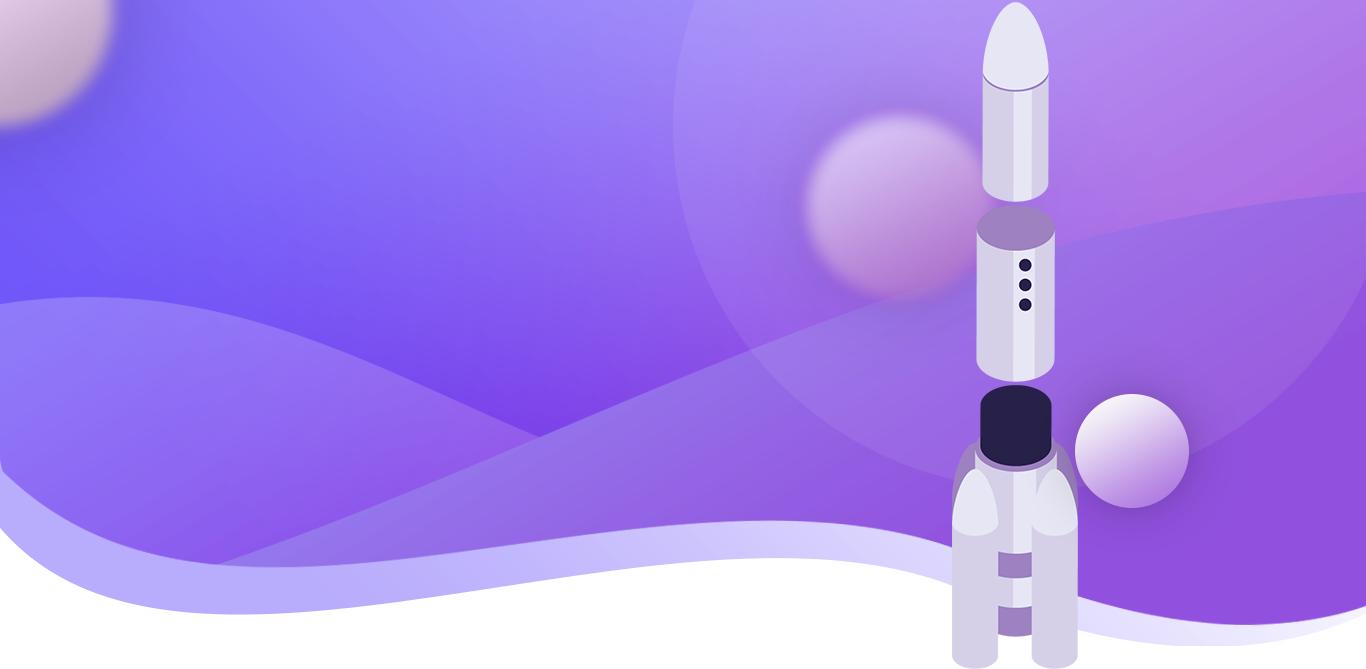
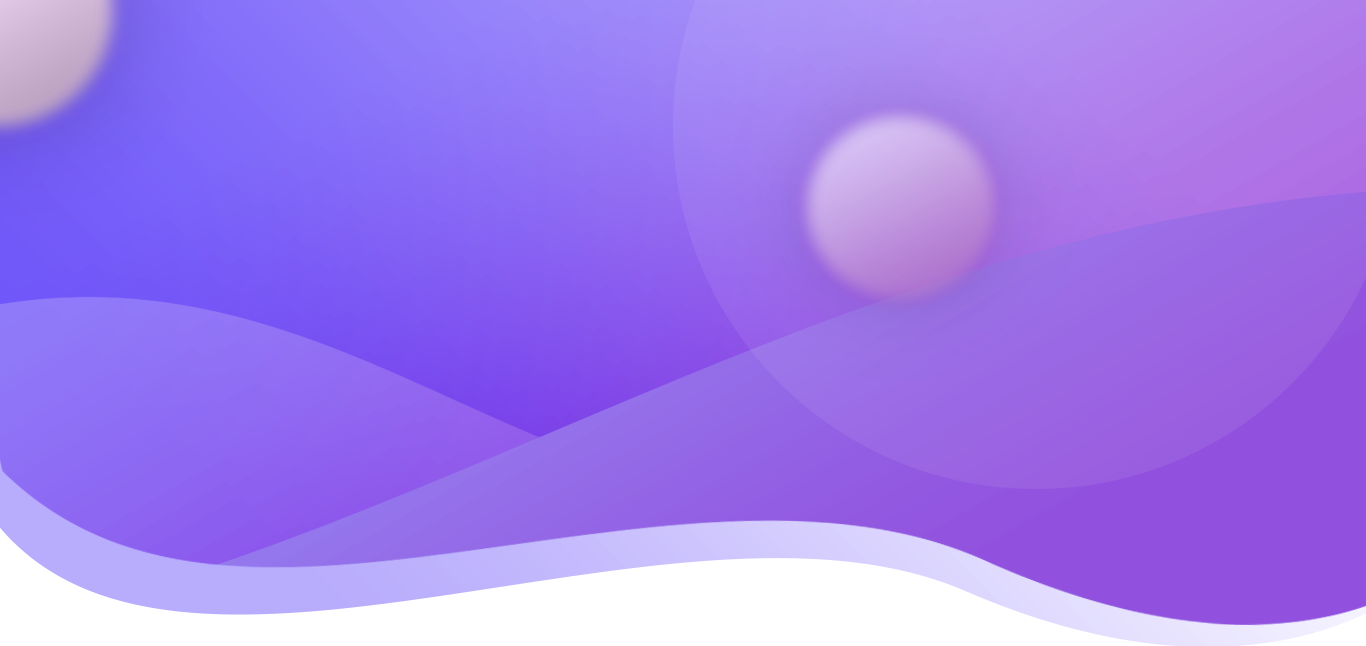
create companies

diff --git a/app/css/style.min.css b/app/css/style.min.css
@@ -1,1 +1,1 @@
-/*! normalize.css v8.0.1 | MIT License | github.com/necolas/normalize.css */html{line-height:1.15;-webkit-text-size-adjust:100%}body{margin:0}main{display:block}h1{font-size:2em;margin:0.67em 0}hr{-webkit-box-sizing:content-box;box-sizing:content-box;height:0;overflow:visible}pre{font-family:monospace, monospace;font-size:1em}a{background-color:transparent}abbr[title]{border-bottom:none;text-decoration:underline;-webkit-text-decoration:underline dotted;text-decoration:underline dotted}b,strong{font-weight:bolder}code,kbd,samp{font-family:monospace, monospace;font-size:1em}small{font-size:80%}sub,sup{font-size:75%;line-height:0;position:relative;vertical-align:baseline}sub{bottom:-0.25em}sup{top:-0.5em}img{border-style:none}button,input,optgroup,select,textarea{font-family:inherit;font-size:100%;line-height:1.15;margin:0}button,input{overflow:visible}button,select{text-transform:none}button,[type="button"],[type="reset"],[type="submit"]{-webkit-appearance:button}button::-moz-focus-inner,[type="button"]::-moz-focus-inner,[type="reset"]::-moz-focus-inner,[type="submit"]::-moz-focus-inner{border-style:none;padding:0}button:-moz-focusring,[type="button"]:-moz-focusring,[type="reset"]:-moz-focusring,[type="submit"]:-moz-focusring{outline:1px dotted ButtonText}fieldset{padding:0.35em 0.75em 0.625em}legend{-webkit-box-sizing:border-box;box-sizing:border-box;color:inherit;display:table;max-width:100%;padding:0;white-space:normal}progress{vertical-align:baseline}textarea{overflow:auto}[type="checkbox"],[type="radio"]{-webkit-box-sizing:border-box;box-sizing:border-box;padding:0}[type="number"]::-webkit-inner-spin-button,[type="number"]::-webkit-outer-spin-button{height:auto}[type="search"]{-webkit-appearance:textfield;outline-offset:-2px}[type="search"]::-webkit-search-decoration{-webkit-appearance:none}::-webkit-file-upload-button{-webkit-appearance:button;font:inherit}details{display:block}summary{display:list-item}template{display:none}[hidden]{display:none}.slick-slider{position:relative;display:block;-webkit-box-sizing:border-box;box-sizing:border-box;-webkit-user-select:none;-moz-user-select:none;-ms-user-select:none;user-select:none;-webkit-touch-callout:none;-khtml-user-select:none;-ms-touch-action:pan-y;touch-action:pan-y;-webkit-tap-highlight-color:transparent}.slick-list{position:relative;display:block;overflow:hidden;margin:0;padding:0}.slick-list:focus{outline:none}.slick-list.dragging{cursor:pointer;cursor:hand}.slick-slider .slick-track,.slick-slider .slick-list{-webkit-transform:translate3d(0, 0, 0);-ms-transform:translate3d(0, 0, 0);transform:translate3d(0, 0, 0)}.slick-track{position:relative;top:0;left:0;display:block;margin-left:auto;margin-right:auto}.slick-track:before,.slick-track:after{display:table;content:''}.slick-track:after{clear:both}.slick-loading .slick-track{visibility:hidden}.slick-slide{display:none;float:left;height:100%;min-height:1px}[dir='rtl'] .slick-slide{float:right}.slick-slide img{display:block}.slick-slide.slick-loading img{display:none}.slick-slide.dragging img{pointer-events:none}.slick-initialized .slick-slide{display:block}.slick-loading .slick-slide{visibility:hidden}.slick-vertical .slick-slide{display:block;height:auto;border:1px solid transparent}.slick-arrow.slick-hidden{display:none}@font-face{font-family:'Gilroy';src:url("fonts/Gilroy-ExtraBold.eot");src:url("fonts/Gilroy-ExtraBold.eot?#iefix") format("embedded-opentype"),url("fonts/Gilroy-ExtraBold.woff2") format("woff2"),url("fonts/Gilroy-ExtraBold.woff") format("woff"),url("fonts/Gilroy-ExtraBold.ttf") format("truetype"),url("fonts/Gilroy-ExtraBold.svg#Gilroy-ExtraBold") format("svg");font-weight:bold;font-style:normal;font-display:swap}@font-face{font-family:'Gilroy';src:url("fonts/Gilroy-Light.eot");src:url("fonts/Gilroy-Light.eot?#iefix") format("embedded-opentype"),url("fonts/Gilroy-Light.woff2") format("woff2"),url("fonts/Gilroy-Light.woff") format("woff"),url("fonts/Gilroy-Light.ttf") format("truetype"),url("fonts/Gilroy-Light.svg#Gilroy-Light") format("svg");font-weight:300;font-style:normal;font-display:swap}body{font-size:18px;font-family:'Gilroy'}.container{width:1045px;margin:0 auto}.header{background:url("../img/header-bg.png") no-repeat;background-size:cover;height:100vh}.header-wrap{display:-webkit-box;display:-ms-flexbox;display:flex;-webkit-box-pack:justify;-ms-flex-pack:justify;justify-content:space-between;-webkit-box-align:center;-ms-flex-align:center;align-items:center;border-bottom:1px solid #d9cdfa;height:67px}.nav-wrap{display:-webkit-box;display:-ms-flexbox;display:flex;-webkit-box-pack:justify;-ms-flex-pack:justify;justify-content:space-between;-webkit-box-align:center;-ms-flex-align:center;align-items:center;width:610px}.logo__item{font-size:24px;font-weight:800;text-transform:uppercase;color:#fff}.logo__item-letter{text-transform:lowercase;color:#cd9ff8}.main-nav{list-style:none;display:-webkit-box;display:-ms-flexbox;display:flex;-webkit-box-align:center;-ms-flex-align:center;align-items:center;font-weight:800}.main-nav__item{padding-right:23px}.main-nav__item-link{color:#000;font-size:16px;text-decoration:none}.main-nav__item-link:hover{border-bottom:3px solid #fff}.header-phone{font-weight:800}.intro-block{color:#fff}.intro-block__title{font-size:36px;margin-top:123px;margin-bottom:30px}.intro-block__text{font-size:20px;margin-top:123px;margin-bottom:60px}.decorator{font-weight:800;border-bottom:1px solid #fff}.order{display:inline-block;width:190px;height:60px;background:#fff;color:#7427bd;font-weight:800;border-radius:30px;text-decoration:none;text-align:center;line-height:60px}
+/*! normalize.css v8.0.1 | MIT License | github.com/necolas/normalize.css */html{line-height:1.15;-webkit-text-size-adjust:100%}body{margin:0}main{display:block}h1{font-size:2em;margin:0.67em 0}hr{-webkit-box-sizing:content-box;box-sizing:content-box;height:0;overflow:visible}pre{font-family:monospace, monospace;font-size:1em}a{background-color:transparent}abbr[title]{border-bottom:none;text-decoration:underline;-webkit-text-decoration:underline dotted;text-decoration:underline dotted}b,strong{font-weight:bolder}code,kbd,samp{font-family:monospace, monospace;font-size:1em}small{font-size:80%}sub,sup{font-size:75%;line-height:0;position:relative;vertical-align:baseline}sub{bottom:-0.25em}sup{top:-0.5em}img{border-style:none}button,input,optgroup,select,textarea{font-family:inherit;font-size:100%;line-height:1.15;margin:0}button,input{overflow:visible}button,select{text-transform:none}button,[type="button"],[type="reset"],[type="submit"]{-webkit-appearance:button}button::-moz-focus-inner,[type="button"]::-moz-focus-inner,[type="reset"]::-moz-focus-inner,[type="submit"]::-moz-focus-inner{border-style:none;padding:0}button:-moz-focusring,[type="button"]:-moz-focusring,[type="reset"]:-moz-focusring,[type="submit"]:-moz-focusring{outline:1px dotted ButtonText}fieldset{padding:0.35em 0.75em 0.625em}legend{-webkit-box-sizing:border-box;box-sizing:border-box;color:inherit;display:table;max-width:100%;padding:0;white-space:normal}progress{vertical-align:baseline}textarea{overflow:auto}[type="checkbox"],[type="radio"]{-webkit-box-sizing:border-box;box-sizing:border-box;padding:0}[type="number"]::-webkit-inner-spin-button,[type="number"]::-webkit-outer-spin-button{height:auto}[type="search"]{-webkit-appearance:textfield;outline-offset:-2px}[type="search"]::-webkit-search-decoration{-webkit-appearance:none}::-webkit-file-upload-button{-webkit-appearance:button;font:inherit}details{display:block}summary{display:list-item}template{display:none}[hidden]{display:none}.slick-slider{position:relative;display:block;-webkit-box-sizing:border-box;box-sizing:border-box;-webkit-user-select:none;-moz-user-select:none;-ms-user-select:none;user-select:none;-webkit-touch-callout:none;-khtml-user-select:none;-ms-touch-action:pan-y;touch-action:pan-y;-webkit-tap-highlight-color:transparent}.slick-list{position:relative;display:block;overflow:hidden;margin:0;padding:0}.slick-list:focus{outline:none}.slick-list.dragging{cursor:pointer;cursor:hand}.slick-slider .slick-track,.slick-slider .slick-list{-webkit-transform:translate3d(0, 0, 0);-ms-transform:translate3d(0, 0, 0);transform:translate3d(0, 0, 0)}.slick-track{position:relative;top:0;left:0;display:block;margin-left:auto;margin-right:auto}.slick-track:before,.slick-track:after{display:table;content:''}.slick-track:after{clear:both}.slick-loading .slick-track{visibility:hidden}.slick-slide{display:none;float:left;height:100%;min-height:1px}[dir='rtl'] .slick-slide{float:right}.slick-slide img{display:block}.slick-slide.slick-loading img{display:none}.slick-slide.dragging img{pointer-events:none}.slick-initialized .slick-slide{display:block}.slick-loading .slick-slide{visibility:hidden}.slick-vertical .slick-slide{display:block;height:auto;border:1px solid transparent}.slick-arrow.slick-hidden{display:none}@font-face{font-family:'Gilroy';src:url("fonts/Gilroy-ExtraBold.eot");src:url("fonts/Gilroy-ExtraBold.eot?#iefix") format("embedded-opentype"),url("fonts/Gilroy-ExtraBold.woff2") format("woff2"),url("fonts/Gilroy-ExtraBold.woff") format("woff"),url("fonts/Gilroy-ExtraBold.ttf") format("truetype"),url("fonts/Gilroy-ExtraBold.svg#Gilroy-ExtraBold") format("svg");font-weight:bold;font-style:normal;font-display:swap}@font-face{font-family:'Gilroy';src:url("fonts/Gilroy-Light.eot");src:url("fonts/Gilroy-Light.eot?#iefix") format("embedded-opentype"),url("fonts/Gilroy-Light.woff2") format("woff2"),url("fonts/Gilroy-Light.woff") format("woff"),url("fonts/Gilroy-Light.ttf") format("truetype"),url("fonts/Gilroy-Light.svg#Gilroy-Light") format("svg");font-weight:300;font-style:normal;font-display:swap}body{font-size:18px;font-family:'Gilroy'}.container{width:1045px;margin:0 auto}.header{background:url("../img/header-bg.png") no-repeat;background-size:cover;height:100vh}.header-wrap{display:-webkit-box;display:-ms-flexbox;display:flex;-webkit-box-pack:justify;-ms-flex-pack:justify;justify-content:space-between;-webkit-box-align:center;-ms-flex-align:center;align-items:center;border-bottom:1px solid #d9cdfa;height:67px;position:relative}.nav-wrap{display:-webkit-box;display:-ms-flexbox;display:flex;-webkit-box-pack:justify;-ms-flex-pack:justify;justify-content:space-between;-webkit-box-align:center;-ms-flex-align:center;align-items:center;width:610px}.logo__item{font-size:24px;font-weight:800;text-transform:uppercase;text-decoration:none;color:#fff}.logo__item .letter{text-transform:lowercase;color:#cd9ff8}.main-nav{list-style:none;display:-webkit-box;display:-ms-flexbox;display:flex;-webkit-box-align:center;-ms-flex-align:center;align-items:center;font-weight:800}.main-nav__item{padding-right:23px}.main-nav__item-link{color:#000;font-size:16px;text-decoration:none}.main-nav__item-link:hover{border-bottom:3px solid #fff}.header-phone{font-weight:800}.intro-block{color:#fff}.intro-block__title{font-size:36px;margin-top:123px;margin-bottom:30px}.intro-block__text{font-size:20px;margin-top:123px;margin-bottom:60px}.decorator{font-weight:800;border-bottom:1px solid #fff}.order{display:inline-block;width:190px;height:60px;background:#fff;color:#7427bd;font-weight:800;border-radius:30px;text-decoration:none;text-align:center;line-height:60px}.order:hover{background-color:#7427bd;color:#fff}.header-rocket{position:absolute;top:0;right:15%}.header-circle{position:absolute;top:490%;right:0%}.companies{text-align:center}.companies__title{margin-bottom:34px}.companies__text{color:#7427bd}.brands-wrap{position:relative;height:800px}.brands{padding-top:105px;padding-bottom:112px}.brands__item .google-maps{position:absolute;left:50%;-webkit-transform:translateX(-50%);-ms-transform:translateX(-50%);transform:translateX(-50%)}.brands__item .otzovik{position:absolute;left:20%;top:40%}.brands__item .yandex-maps{position:absolute;left:0;top:60%}.brands__item .flamp{position:absolute;right:20%;top:40%}.brands__item .zoon{position:absolute;right:0;top:60%}.brands__item .gis{position:absolute;right:0;top:80%}.brands__item .yell{position:absolute;left:0;top:85%}.brands__item .irecommend{position:absolute;right:0;top:95%}.brands__item .plus{position:absolute;left:50%;top:60%;-webkit-transform:translateX(-50%);-ms-transform:translateX(-50%);transform:translateX(-50%)}.brands .keep-hand{position:absolute;left:50%;top:90%;-webkit-transform:translateX(-50%);-ms-transform:translateX(-50%);transform:translateX(-50%);font-weight:800}.brands-buttons{list-style:none}.social-networks,.bulletins,.thematic-forums,.marketplaces{display:inline-block;width:220px;height:63px;background:#f6f6f6;color:#000;border-radius:30px;text-decoration:none;text-align:center;line-height:60px;position:absolute}.social-networks{left:3%;bottom:-10%}.bulletins{left:18%;bottom:-25%}.thematic-forums{left:48%;bottom:-28%}.marketplaces{right:3%;bottom:-15%}

diff --git a/app/index.html b/app/index.html
@@ -14,7 +14,9 @@
         <div class="header-wrap">
           <div class="nav-wrap">
             <div class="logo">
-              <p class="logo__item"><span class="logo__item-letter">y</span>SERM</p>
+              <a class="logo__item" href="#">
+                <span class="letter">y</span>SERM
+              </a>
             </div>
             <nav class="nav-block">
               <ul class="main-nav">
@@ -37,6 +39,8 @@
             </nav>
           </div>
           <span class="header-phone">+7 (795) 345-60-89</span>
+          <img class="header-rocket" src="img/rocket.png" alt="Rocket">
+          <img class="header-circle" src="img/circle.png" alt="Circle">
         </div> <!-- header-wrap -->
         <div class="intro-block">
           <h1 class="intro-block__title">Найди новые точки роста!</h1>
@@ -51,40 +55,65 @@
       </div> <!-- container -->
     </header>
     <!-- Companies -->
-    <!-- <section class="companies">
-      <h2 class="companies__title">
-        Как относятся к вашей компании <br> или товару на рынке?
-      </h2>
-      <span class="companies__text">Ваша репутация - это ваши продажи!</span>
-      <div class="brands">
-        <img class="brands__google-maps" src="img/brands/google-maps.png" alt="Google Maps">
-        <img class="brands__otzovik" src="img/brands/otzovik.png" alt="Otzovik">
-        <img class="brands__yandex-maps" src="img/brands/yandex-maps.png" alt="Яндекс Карты">
-        <img class="brands__flamp" src="img/brands/flamp.png" alt="Flamp">
-        <img class="brands__zoon" src="img/brands/zoon.png" alt="Zoon">
-        <img class="brands__2gis" src="img/brands/2gis.png" alt="2Gis">
-        <img class="brands__yell" src="img/brands/yell.png" alt="Yell">
-        <img class="brands__irecommend" src="img/brands/irecommend.png" alt="iRecommend.ru">
-      </div>
-      <span class="keep-hand">
-        Держи руку на пульсе своей репутации
-        Увеличивай продажи
-      </span>
-      <ul class="brands-buttons">
-        <li class="brands-buttons__item">
-          <a href="#">Социальные сети</a>
-        </li>
-        <li class="brands-buttons__item"><a href="#">
-          Доски объявлений</a>
-        </li>
-        <li class="brands-buttons__item"><a href="#">
-          Тематичексие форумы</a>
-        </li>
-        <li class="brands-buttons__item"><a href="#">
-          Маркетплейсы</a>
-        </li>
-      </ul>
-    </section> -->
+    <section class="companies">
+      <div class="container">
+        <div class="brands-wrap">
+          <h2 class="companies__title">
+            Как относятся к вашей компании <br> или товару на рынке?
+          </h2>
+          <span class="companies__text">Ваша репутация - это ваши продажи!</span>
+          <div class="brands">
+            <a class="brands__item" href="#">
+              <img class="google-maps" src="img/brands/google-maps.png" alt="Google Maps">
+            </a>
+            <a class="brands__item" href="#">
+              <img class="otzovik" src="img/brands/otzovik.png" alt="Otzovik">
+            </a>
+            <a class="brands__item" href="#">
+              <img class="yandex-maps" src="img/brands/yandex-maps.png" alt="Яндекс Карты">
+            </a>
+            <a class="brands__item" href="#">
+              <img class="flamp" src="img/brands/flamp.png" alt="Flamp">
+            </a>
+            <a class="brands__item" href="#">
+              <img class="zoon" src="img/brands/zoon.png" alt="Zoon">
+            </a>
+            <a class="brands__item" href="#">
+              <img class="gis" src="img/brands/2gis.png" alt="2Gis">
+            </a>
+            <a class="brands__item" href="#">
+              <img class="yell" src="img/brands/yell.png" alt="Yell">
+            </a>
+            <a class="brands__item" href="#">
+              <img class="irecommend" src="img/brands/irecommend.png" alt="iRecommend.ru"></a>
+            <a class="brands__item" href="#">
+              <img class="plus" src="img/brands/plus.png" alt="Plus">
+            </a>
+            <span class="keep-hand">
+              Держи руку на пульсе своей репутации <br>
+              Увеличивай продажи
+            </span>
+            <ul class="brands-buttons">
+              <li class="brands-buttons__item">
+                <a class="social-networks" href="#">Социальные сети</a>
+              </li>
+              <li class="brands-buttons__item">
+                <a class="bulletins" href="#">Доски объявлений</a>
+              </li>
+              <li class="brands-buttons__item">
+                <a class="thematic-forums" href="#">Тематичексие форумы</a>
+              </li>
+              <li class="brands-buttons__item">
+                <a class="marketplaces" href="#">Маркетплейсы</a>
+              </li>
+            </ul>
+          </div> <!-- brands -->
+        </div> <!-- brands-wrap -->
+      </div> <!-- container -->
+
+
+
+    </section> <!-- companies -->
     <script src="https://ajax.googleapis.com/ajax/libs/jquery/3.4.1/jquery.min.js"></script>
     <script src="js/libs.min.js"></script>
     <script src="js/main.js"></script>

diff --git a/app/scss/style.scss b/app/scss/style.scss
@@ -27,6 +27,7 @@ body {
   align-items: center;
   border-bottom: 1px solid $grey;
   height: 67px;
+  position: relative;
 }
 
 .nav-wrap {
@@ -40,8 +41,9 @@ body {
   font-size: 24px;
   font-weight: 800;
   text-transform: uppercase;
+  text-decoration: none;
   color: $white;
-  &-letter {
+  .letter {
     text-transform: lowercase;
     color: $purple;
   }
@@ -99,64 +101,138 @@ body {
   text-decoration: none;
   text-align: center;
   line-height: 60px;
+  &:hover {
+    background-color: $hard-purple;
+    color: $white;
+  }
+}
+
+.header-rocket {
+  position: absolute;
+  top: 0;
+  right: 15%;
+}
+
+.header-circle {
+  position: absolute;
+  top: 490%;
+  right: 0%;
 }
 
 /* Companies */
-// .companies {
-//   text-align: center;
-//   height: 800px;
-//   &__title {
-//     margin-bottom: 34px;
-//   }
-//   &__text {
-//     color: $hard-purple;
-//   }
-// }
+.companies {
+  text-align: center;
+  &__title {
+    margin-bottom: 34px;
+  }
+  &__text {
+    color: $hard-purple;
+  }
+}
 
-// .brands {
-//   position: relative;
-//   padding-top: 105px;
-//   padding-bottom: 112px;
-//   &__google-maps {
-//     position: absolute;
-//     left: 50%;
-//     transform: translateX(-50%);
-//   }
-//   &__otzovik {
-//     position: absolute;
-//     left: 20%;
-//     top: 80%;
-//   }
-//   &__yandex-maps {
-//     position: absolute;
-//     left: 0;
-//     top: 120%;
-//   }
-//   &__flamp {
-//     position: absolute;
-//     right: 20%;
-//     top: 80%;
-//   }
-//   &__zoon {
-//     position: absolute;
-//     right: 0;
-//     top: 120%;
-//   }
-//   &__2gis {
-//     position: absolute;
-//     right: 0;
-//     top: 210%;
-//   }
-//   &__yell {
-//     position: absolute;
-//     left: 0;
-//     top: 210%;
-//   }
-//   &__irecommend {
-//     position: absolute;
-//     right: 0;
-//     top: 260%;
-//   }
-// }
+.brands-wrap {
+  position: relative;
+  height: 800px;
+}
+
+.brands {
+  padding-top: 105px;
+  padding-bottom: 112px;
+  &__item {
+    .google-maps {
+      position: absolute;
+      left: 50%;
+      transform: translateX(-50%);
+    }
+    .otzovik {
+      position: absolute;
+      left: 20%;
+      top: 40%;
+    }
+    .yandex-maps {
+      position: absolute;
+      left: 0;
+      top: 60%;
+    }
+    .flamp {
+      position: absolute;
+      right: 20%;
+      top: 40%;
+    }
+    .zoon {
+      position: absolute;
+      right: 0;
+      top: 60%;
+    }
+    .gis {
+      position: absolute;
+      right: 0;
+      top: 80%;
+    }
+    .yell {
+      position: absolute;
+      left: 0;
+      top: 85%;
+    }
+    .irecommend {
+      position: absolute;
+      right: 0;
+      top: 95%;
+    }
+    .plus {
+      position: absolute;
+      left: 50%;
+      top: 60%;
+      transform: translateX(-50%);
+    }
+  }
+  .keep-hand {
+    position: absolute;
+    left: 50%;
+    top: 90%;
+    transform: translateX(-50%);
+    font-weight: 800;
+  }
+}
+
+.brands-buttons {
+  list-style: none;
+}
+
+.social-networks,
+.bulletins,
+.thematic-forums,
+.marketplaces {
+  display: inline-block;
+  width: 220px;
+  height: 63px;
+  background: $light-grey;
+  color: $black;
+  border-radius: 30px;
+  text-decoration: none;
+  text-align: center;
+  line-height: 60px;
+  position: absolute;
+}
+
+.social-networks {
+  left: 3%;
+  bottom: -10%;
+}
+
+.bulletins {
+  left: 18%;
+  bottom: -25%;
+}
+
+.thematic-forums {
+  left: 48%;
+  bottom: -28%;
+}
+
+.marketplaces {
+  right: 3%;
+  bottom: -15%;
+}
 
 @import 'media';

diff --git a/app/scss/_vars.scss b/app/scss/_vars.scss
@@ -3,3 +3,4 @@ $purple: #cd9ff8;
 $hard-purple: #7427bd;
 $black: #000;
 $grey: #d9cdfa;
+$light-grey: #f6f6f6;
